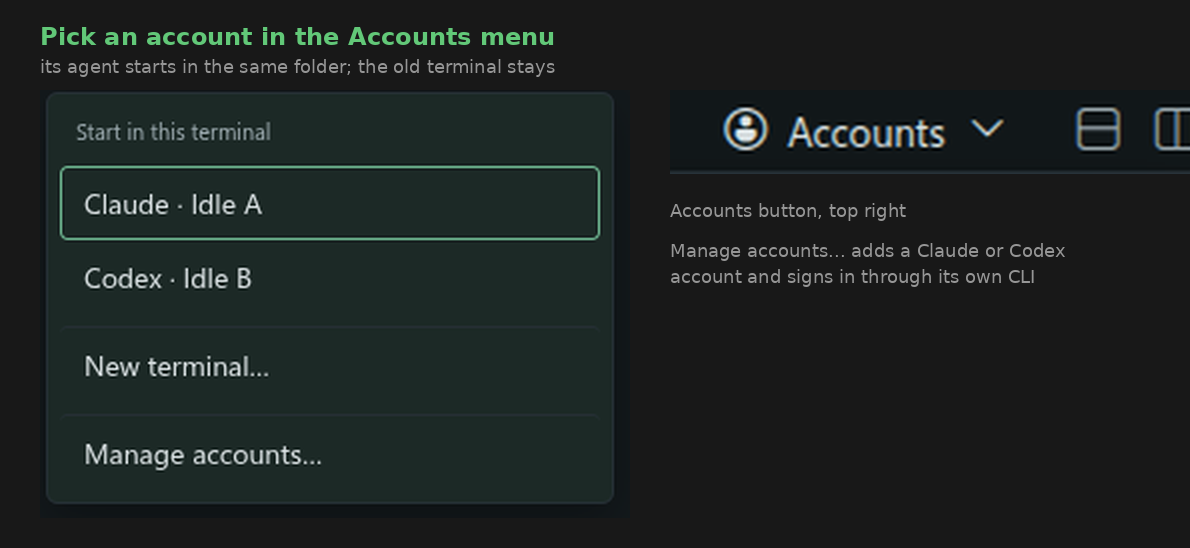
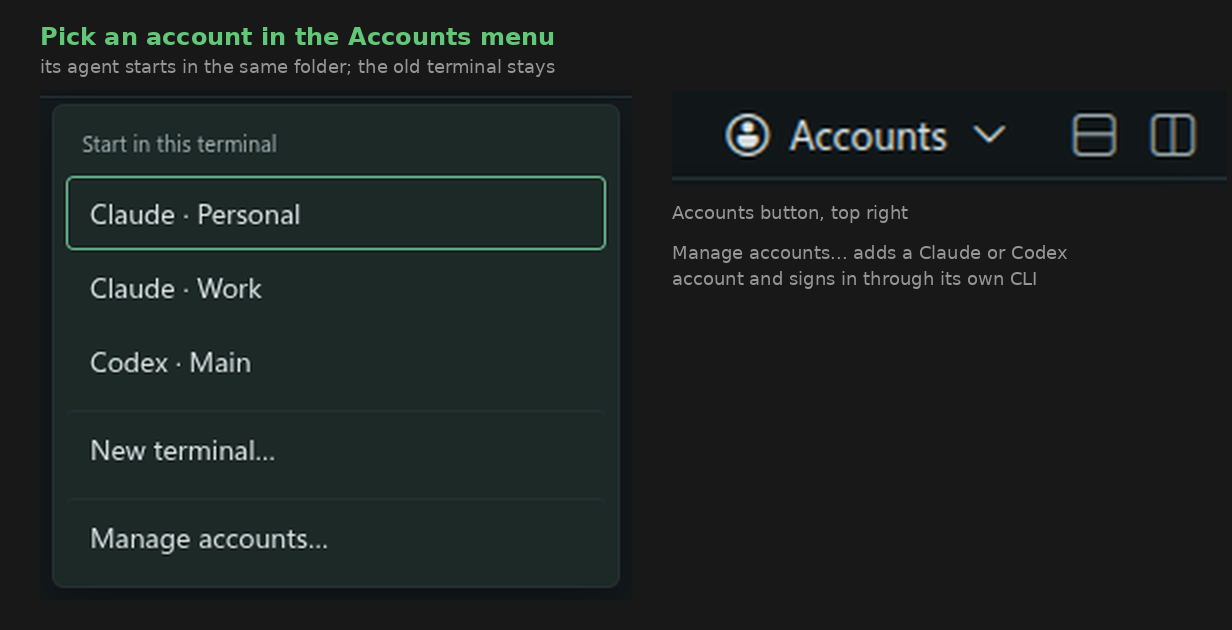
README: 계정 전환 그림을 Claude 계정 둘과 Codex 계정 하나가 보이는 메뉴로 다시 촬영

diff --git a/README.md b/README.md
@@ -26,7 +26,7 @@ Changed files are **marked M or U in the file tree and open beside the terminal*
 
 Keep several Claude and Codex accounts, each signed in through its own CLI. **Each account's 5-hour and weekly usage** shows in the status bar once an agent on it has replied, as its CLI reports it; when one runs low, **pick another account in the Accounts menu** and its agent starts in the same folder.
 
-![The Accounts menu lists each Claude and Codex account; picking one starts its agent in the same folder](docs/accounts-switch.png)
+![The Accounts menu lists two Claude accounts and a Codex account; picking one starts its agent in the same folder](docs/accounts-switch.png)
 
 ![The status bar shows each Claude and Codex account's 5-hour and weekly usage](docs/accounts-usage.png)
 
